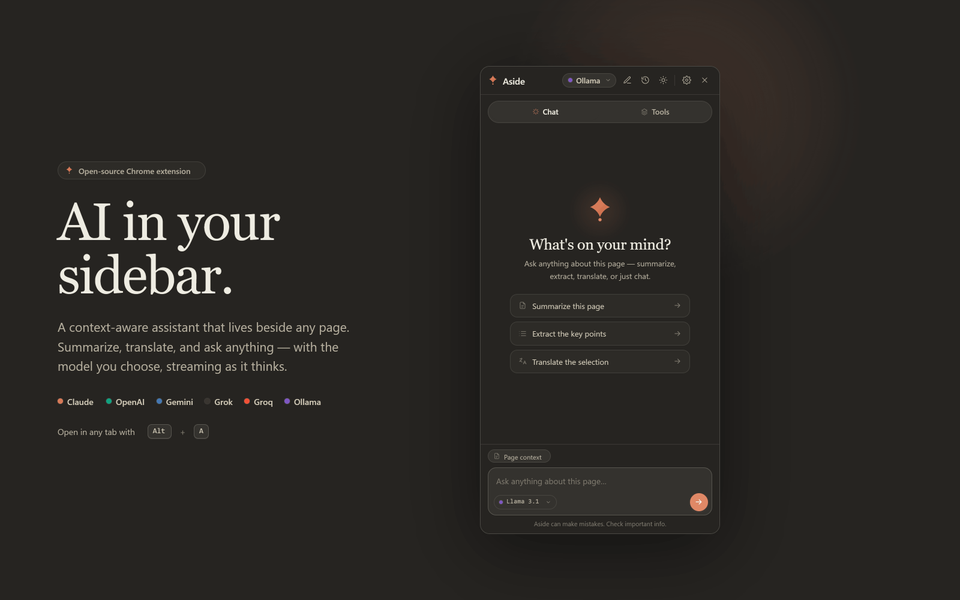
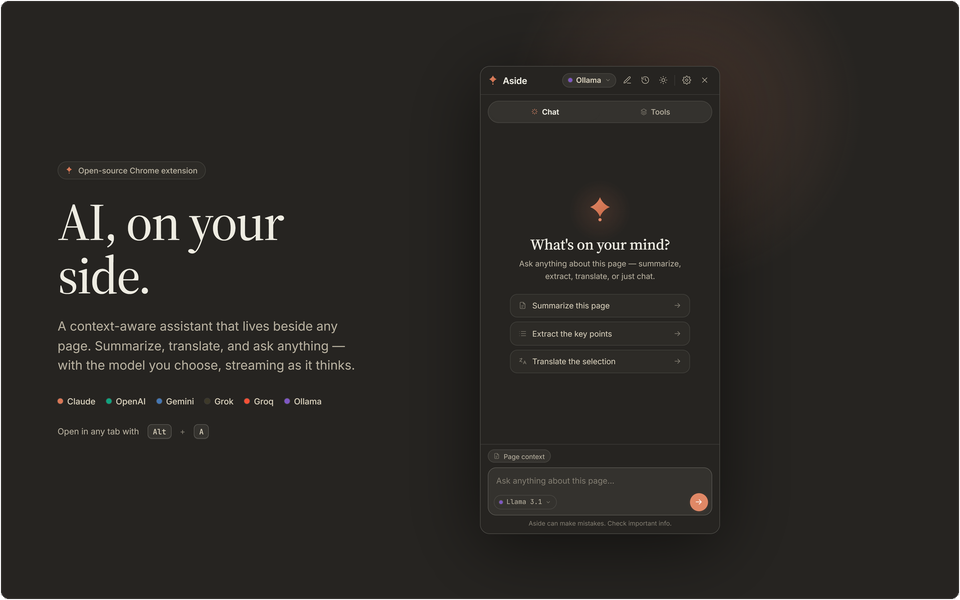
@ chore(marketing): refresh hero images and add social carousel assets @

diff --git a/site/index.html b/site/index.html
@@ -104,8 +104,8 @@
         <div>
           <span class="eyebrow" data-i18n="hero.eyebrow">Chrome Extension</span>
           <h1>
-            <span data-i18n="hero.title_a">Every AI model.</span><br>
-            <em data-i18n="hero.title_b">One sidebar.</em>
+            <span data-i18n="hero.title_a">AI,</span><br>
+            <em data-i18n="hero.title_b">on your side.</em>
           </h1>
           <p class="hero-sub" data-i18n="hero.sub">
             Aside puts Claude, ChatGPT, Gemini, Grok, Groq and local Ollama side-by-side in a sidebar that travels with you. Bring your own keys. Nothing leaves your browser.
